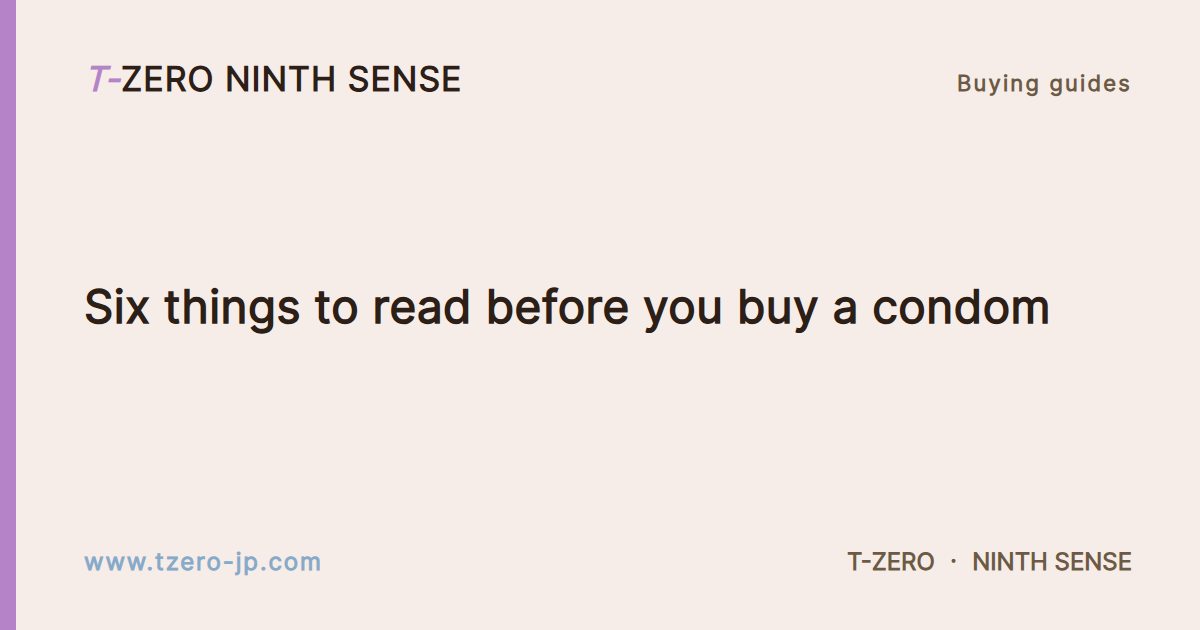
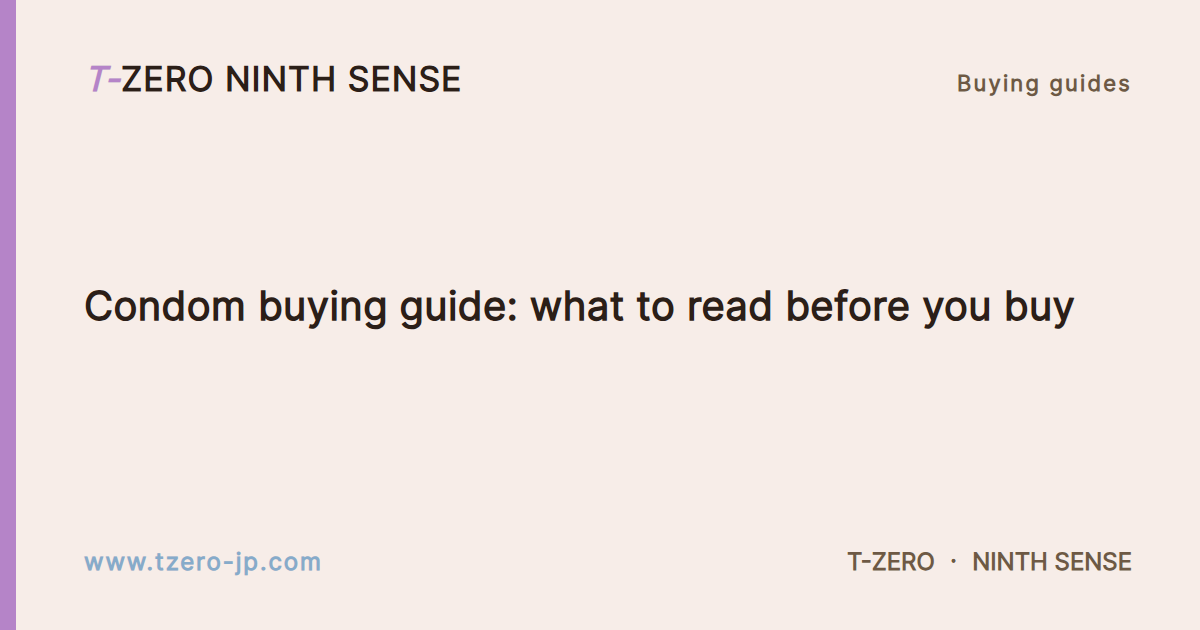
Put the words on the page that were written for it
The title of the guides hub was rewritten. What changed was the
title in the tab and the description under the search result — the
words a crawler reads. The heading above the fold still said "買安全套
之前,先看這六篇" and the paragraph under it still said "尺碼、材質、紋
路、厚度…". Those are the words a reader actually sees, and they
were the ones nobody had rewritten. The heading is the title now,
and the paragraph is the description, in all three languages.

The list of guides sat in a column of its own in the middle of the
page, under a heading on the left. The eye went from the heading
down to the list and found the two were not lined up. The column was
narrower than the heading above it, so the paragraph wrapped early
and left a hole on the right of the page. Everything on the guide
pages now reads as one column on the left, as wide as the heading
above it — the lead, the list, the prose, the questions, the tables.

The stylesheet's version number goes to 27 on every page, so the
new CSS is fetched rather than served from the cache.

161 tests pass. 55 generated files come out byte for byte the same.

Changed region(s): [[0.0617, 0.4524, 0.8942, 0.5429]]

diff --git a/guides.html b/guides.html
@@ -6,9 +6,9 @@
 <head>
   <meta charset="UTF-8">
   <meta name="viewport" content="width=device-width, initial-scale=1.0">
-  <title>【安全套選購指南】買安全套前必看, 解決你的所有避孕疑惑</title>
+  <title>【安全套選購指南】買安全套前必看, 解決你的避孕疑惑</title>
   <meta name="description" content="從安全套尺寸闊度量度、乳膠與PU材質比較、超薄厚度選擇到玻尿酸潤滑液的防乾功效，香港 T-ZERO 團隊為您一次解答常見疑問。">
-  <meta name="keywords" content="【安全套選購指南】買安全套前必看, 解決你的所有避孕疑惑">
+  <meta name="keywords" content="【安全套選購指南】買安全套前必看, 解決你的避孕疑惑">
   <meta name="robots" content="index,follow">
 
   <link rel="canonical" href="https://www.tzero-jp.com/guides.html">
@@ -19,20 +19,20 @@
 
   <meta property="og:type" content="website">
   <meta property="og:site_name" content="T-ZERO 第九感">
-  <meta property="og:title" content="【安全套選購指南】買安全套前必看, 解決你的所有避孕疑惑">
+  <meta property="og:title" content="【安全套選購指南】買安全套前必看, 解決你的避孕疑惑">
   <meta property="og:description" content="從安全套尺寸闊度量度、乳膠與PU材質比較、超薄厚度選擇到玻尿酸潤滑液的防乾功效，香港 T-ZERO 團隊為您一次解答常見疑問。">
   <meta property="og:url" content="https://www.tzero-jp.com/guides.html">
   <meta property="og:image" content="https://www.tzero-jp.com/assets/images/og/guides-zh.png">
   <meta property="og:image:width" content="1200">
   <meta property="og:image:height" content="630">
   <meta property="og:image:type" content="image/png">
-  <meta property="og:image:alt" content="T-ZERO 第九感 — 買安全套之前,先看這六篇">
+  <meta property="og:image:alt" content="T-ZERO 第九感 — 【安全套選購指南】買安全套前必看, 解決你的避孕疑惑">
   <meta property="og:locale" content="zh_HK" data-i18n-attr="content" data-i18n="seo.og.locale">
   <meta property="og:locale:alternate" content="en_US" data-i18n-attr="content" data-i18n="seo.og.locale.alt1">
   <meta property="og:locale:alternate" content="ja_JP" data-i18n-attr="content" data-i18n="seo.og.locale.alt2">
 
   <meta name="twitter:card" content="summary_large_image">
-  <meta name="twitter:title" content="【安全套選購指南】買安全套前必看, 解決你的所有避孕疑惑">
+  <meta name="twitter:title" content="【安全套選購指南】買安全套前必看, 解決你的避孕疑惑">
   <meta name="twitter:description" content="從安全套尺寸闊度量度、乳膠與PU材質比較、超薄厚度選擇到玻尿酸潤滑液的防乾功效，香港 T-ZERO 團隊為您一次解答常見疑問。">
   <meta name="twitter:image" content="https://www.tzero-jp.com/assets/images/og/guides-zh.png">
 
@@ -43,7 +43,7 @@
   <link rel="stylesheet" href="assets/css/base.css?v=5">
   <link rel="stylesheet" href="assets/css/layout.css?v=37">
   <link rel="stylesheet" href="assets/css/components.css?v=5">
-  <link rel="stylesheet" href="assets/css/pages.css?v=26">
+  <link rel="stylesheet" href="assets/css/pages.css?v=27">
 
   <script src="assets/js/splash.js?v=5" defer></script>
 
@@ -78,7 +78,7 @@
       "@type": "CollectionPage",
       "@id": "https://www.tzero-jp.com/guides.html#webpage",
       "url": "https://www.tzero-jp.com/guides.html",
-      "name": "【安全套選購指南】買安全套前必看, 解決你的所有避孕疑惑",
+      "name": "【安全套選購指南】買安全套前必看, 解決你的避孕疑惑",
       "description": "從安全套尺寸闊度量度、乳膠與PU材質比較、超薄厚度選擇到玻尿酸潤滑液的防乾功效，香港 T-ZERO 團隊為您一次解答常見疑問。",
       "isPartOf": {
         "@id": "https://www.tzero-jp.com/#site"
@@ -88,7 +88,7 @@
       },
       "inLanguage": "zh-HK",
       "datePublished": "2026-11-02",
-      "dateModified": "2026-11-05",
+      "dateModified": "2026-11-06",
       "image": "https://www.tzero-jp.com/assets/images/og/guides-zh.png"
     },
     {
@@ -186,8 +186,8 @@
 
         <header class="guide__head">
           <span class="eyebrow">選購指南</span>
-          <h1><svg class="guide__icon guide__icon--title" viewBox="0 0 24 24" fill="none" stroke="currentColor" stroke-width="1.8" stroke-linecap="round" stroke-linejoin="round" aria-hidden="true"><path d="M9.5 6.5h11M9.5 12h11M9.5 17.5h11"/><path d="M4.6 6.5h.01M4.6 12h.01M4.6 17.5h.01"/></svg>買安全套之前,先看這六篇</h1>
-          <p class="guide__lead">尺碼、材質、紋路、厚度、第一次買,以及潤滑到底有沒有用 — 最常被問到的六個問題,一次講清楚。</p>
+          <h1><svg class="guide__icon guide__icon--title" viewBox="0 0 24 24" fill="none" stroke="currentColor" stroke-width="1.8" stroke-linecap="round" stroke-linejoin="round" aria-hidden="true"><path d="M9.5 6.5h11M9.5 12h11M9.5 17.5h11"/><path d="M4.6 6.5h.01M4.6 12h.01M4.6 17.5h.01"/></svg>【安全套選購指南】買安全套前必看, 解決你的避孕疑惑</h1>
+          <p class="guide__lead">從安全套尺寸闊度量度、乳膠與PU材質比較、超薄厚度選擇到玻尿酸潤滑液的防乾功效，香港 T-ZERO 團隊為您一次解答常見疑問。</p>
         </header>
 
         <div class="guide-hub">

diff --git a/ja/guides.html b/ja/guides.html
@@ -26,7 +26,7 @@
   <meta property="og:image:width" content="1200">
   <meta property="og:image:height" content="630">
   <meta property="og:image:type" content="image/png">
-  <meta property="og:image:alt" content="T-ZERO 第九感 — コンドームを買う前に読んでおきたい6つのガイド">
+  <meta property="og:image:alt" content="T-ZERO 第九感 — 【コンドーム購入ガイド】購入前に知っておきたい疑問をすべて解説">
   <meta property="og:locale" content="ja_JP">
   <meta property="og:locale:alternate" content="zh_HK">
   <meta property="og:locale:alternate" content="en_US">
@@ -43,7 +43,7 @@
   <link rel="stylesheet" href="../assets/css/base.css?v=5">
   <link rel="stylesheet" href="../assets/css/layout.css?v=37">
   <link rel="stylesheet" href="../assets/css/components.css?v=5">
-  <link rel="stylesheet" href="../assets/css/pages.css?v=26">
+  <link rel="stylesheet" href="../assets/css/pages.css?v=27">
 
   <script src="../assets/js/splash.js?v=5" defer></script>
 
@@ -88,7 +88,7 @@
       },
       "inLanguage": "ja-JP",
       "datePublished": "2026-11-02",
-      "dateModified": "2026-11-05",
+      "dateModified": "2026-11-06",
       "image": "https://www.tzero-jp.com/assets/images/og/guides-ja.png"
     },
     {
@@ -186,8 +186,8 @@
 
         <header class="guide__head">
           <span class="eyebrow">購入ガイド</span>
-          <h1><svg class="guide__icon guide__icon--title" viewBox="0 0 24 24" fill="none" stroke="currentColor" stroke-width="1.8" stroke-linecap="round" stroke-linejoin="round" aria-hidden="true"><path d="M9.5 6.5h11M9.5 12h11M9.5 17.5h11"/><path d="M4.6 6.5h.01M4.6 12h.01M4.6 17.5h.01"/></svg>コンドームを買う前に読んでおきたい6つのガイド</h1>
-          <p class="guide__lead">サイズ、素材、テクスチャ、厚さ、はじめての一本、そして潤滑剤が実際に何をしているのか。よく聞かれる六つの疑問に、ひとつずつ答えました。</p>
+          <h1><svg class="guide__icon guide__icon--title" viewBox="0 0 24 24" fill="none" stroke="currentColor" stroke-width="1.8" stroke-linecap="round" stroke-linejoin="round" aria-hidden="true"><path d="M9.5 6.5h11M9.5 12h11M9.5 17.5h11"/><path d="M4.6 6.5h.01M4.6 12h.01M4.6 17.5h.01"/></svg>【コンドーム購入ガイド】購入前に知っておきたい疑問をすべて解説</h1>
+          <p class="guide__lead">サイズを測る方法からラテックスとPUの素材の違い、極薄の選び方、ヒアルロテン酸の潤滑効果まで。香港のT-ZEROチームがよくある質問を一気に解説します。</p>
         </header>
 
         <div class="guide-hub">

diff --git a/en/guides.html b/en/guides.html
@@ -26,7 +26,7 @@
   <meta property="og:image:width" content="1200">
   <meta property="og:image:height" content="630">
   <meta property="og:image:type" content="image/png">
-  <meta property="og:image:alt" content="T-ZERO NINTH SENSE — Six things to read before you buy a condom">
+  <meta property="og:image:alt" content="T-ZERO NINTH SENSE — Condom buying guide: what to read before you buy">
   <meta property="og:locale" content="en_US">
   <meta property="og:locale:alternate" content="zh_HK">
   <meta property="og:locale:alternate" content="ja_JP">
@@ -43,7 +43,7 @@
   <link rel="stylesheet" href="../assets/css/base.css?v=5">
   <link rel="stylesheet" href="../assets/css/layout.css?v=37">
   <link rel="stylesheet" href="../assets/css/components.css?v=5">
-  <link rel="stylesheet" href="../assets/css/pages.css?v=26">
+  <link rel="stylesheet" href="../assets/css/pages.css?v=27">
 
   <script src="../assets/js/splash.js?v=5" defer></script>
 
@@ -88,7 +88,7 @@
       },
       "inLanguage": "en",
       "datePublished": "2026-11-02",
-      "dateModified": "2026-11-05",
+      "dateModified": "2026-11-06",
       "image": "https://www.tzero-jp.com/assets/images/og/guides-en.png"
     },
     {
@@ -186,8 +186,8 @@
 
         <header class="guide__head">
           <span class="eyebrow">Buying guides</span>
-          <h1><svg class="guide__icon guide__icon--title" viewBox="0 0 24 24" fill="none" stroke="currentColor" stroke-width="1.8" stroke-linecap="round" stroke-linejoin="round" aria-hidden="true"><path d="M9.5 6.5h11M9.5 12h11M9.5 17.5h11"/><path d="M4.6 6.5h.01M4.6 12h.01M4.6 17.5h.01"/></svg>Six things to read before you buy a condom</h1>
-          <p class="guide__lead">Size, material, texture, thickness, buying one for the first time, and what the lubricant is actually doing — the six questions people ask most, answered properly.</p>
+          <h1><svg class="guide__icon guide__icon--title" viewBox="0 0 24 24" fill="none" stroke="currentColor" stroke-width="1.8" stroke-linecap="round" stroke-linejoin="round" aria-hidden="true"><path d="M9.5 6.5h11M9.5 12h11M9.5 17.5h11"/><path d="M4.6 6.5h.01M4.6 12h.01M4.6 17.5h.01"/></svg>Condom buying guide: what to read before you buy</h1>
+          <p class="guide__lead">From measuring the width of a condom to comparing latex with PU, choosing how thin to go, and what the hyaluronic lubricant does about dryness — the Hong Kong T-ZERO team answers the questions people ask most, in one place.</p>
         </header>
 
         <div class="guide-hub">

diff --git a/assets/css/pages.css b/assets/css/pages.css
@@ -981,11 +981,14 @@
 .guide__icon--item { width: 0.95em; height: 0.95em; vertical-align: -0.1em; }
 .guide__icon--pill { width: 1em; height: 1em; vertical-align: -0.12em; margin-right: 0.35em; }
 
+/* The lead is as wide as the heading above it. A paragraph that
+   stops two thirds of the way across the page, while the heading
+   beside it runs the whole way, leaves a hole on the right and
+   breaks the line where there was nothing to break it. */
 .guide__lead {
   font-size: var(--fs-md);
   line-height: 1.75;
   color: var(--ink-soft);
-  max-width: 760px;
 }
 
 .guide__meta {
@@ -1060,7 +1063,7 @@
 /* The writing itself — one column, top to bottom. A guide is read,
    not scanned: the answer is usually a paragraph, and a paragraph
    cut in half and put beside a heading is harder to read. */
-.guide__prose { max-width: 760px; margin-inline: auto; }
+.guide__prose { margin-inline: 0; }
 
 .guide__section { margin-bottom: var(--space-7); }
 
@@ -1156,7 +1159,7 @@
 .guide__table tbody tr:nth-child(even) { background: rgba(238, 245, 251, 0.55); }
 
 /* The questions */
-.guide__faq { max-width: 760px; margin-inline: auto; margin-top: var(--space-7); }
+.guide__faq { margin-inline: 0; margin-top: var(--space-7); }
 
 .guide__faq h2,
 .guide__related h2,
@@ -1205,7 +1208,7 @@
 
 /* The links out */
 .guide__related,
-.guide__all { max-width: 760px; margin-inline: auto; margin-top: var(--space-7); }
+.guide__all { margin-inline: 0; margin-top: var(--space-7); }
 
 .guide__related ul,
 .guide__all ul {
@@ -1282,10 +1285,19 @@
 
 /* One column, top to bottom, like the guides themselves. A list
    of things to read is a list — five boxes side by side would be
-   five things to squint at. */
+   five things to squint at.
+
+   It sits on the left, under the heading, and runs the whole width
+   of the content. The heading and the paragraph above it are both on
+   the left edge of the content, and a list floating in the middle of
+   the page underneath them reads as a mistake: the eye goes to the
+   heading, down to the list, and finds the two are not lined up. And
+   a list of six one-line entries does not need a narrow column — the
+   width was the only thing standing between it and the right-hand
+   edge of the page. The guides themselves read the same way — the
+   heading on the left, the text under it on the left. */
 .guide-hub {
-  max-width: 760px;
-  margin-inline: auto;
+  margin-inline: 0;
   margin-bottom: var(--space-7);
 }
 

diff --git a/en/about.html b/en/about.html
@@ -39,7 +39,7 @@
   <link rel="stylesheet" href="../assets/css/base.css?v=5">
   <link rel="stylesheet" href="../assets/css/layout.css?v=37">
   <link rel="stylesheet" href="../assets/css/components.css?v=5">
-  <link rel="stylesheet" href="../assets/css/pages.css?v=26">
+  <link rel="stylesheet" href="../assets/css/pages.css?v=27">
 
   <script src="../assets/js/splash.js?v=5" defer></script>
 

diff --git a/en/contact.html b/en/contact.html
@@ -39,7 +39,7 @@
   <link rel="stylesheet" href="../assets/css/base.css?v=5">
   <link rel="stylesheet" href="../assets/css/layout.css?v=37">
   <link rel="stylesheet" href="../assets/css/components.css?v=5">
-  <link rel="stylesheet" href="../assets/css/pages.css?v=26">
+  <link rel="stylesheet" href="../assets/css/pages.css?v=27">
 
   <script src="../assets/js/splash.js?v=5" defer></script>
 

diff --git a/en/guide-first-time.html b/en/guide-first-time.html
@@ -43,7 +43,7 @@
   <link rel="stylesheet" href="../assets/css/base.css?v=5">
   <link rel="stylesheet" href="../assets/css/layout.css?v=37">
   <link rel="stylesheet" href="../assets/css/components.css?v=5">
-  <link rel="stylesheet" href="../assets/css/pages.css?v=26">
+  <link rel="stylesheet" href="../assets/css/pages.css?v=27">
 
   <script src="../assets/js/splash.js?v=5" defer></script>
 

diff --git a/en/guide-hyaluronic.html b/en/guide-hyaluronic.html
@@ -43,7 +43,7 @@
   <link rel="stylesheet" href="../assets/css/base.css?v=5">
   <link rel="stylesheet" href="../assets/css/layout.css?v=37">
   <link rel="stylesheet" href="../assets/css/components.css?v=5">
-  <link rel="stylesheet" href="../assets/css/pages.css?v=26">
+  <link rel="stylesheet" href="../assets/css/pages.css?v=27">
 
   <script src="../assets/js/splash.js?v=5" defer></script>
 

diff --git a/en/guide-material.html b/en/guide-material.html
@@ -43,7 +43,7 @@
   <link rel="stylesheet" href="../assets/css/base.css?v=5">
   <link rel="stylesheet" href="../assets/css/layout.css?v=37">
   <link rel="stylesheet" href="../assets/css/components.css?v=5">
-  <link rel="stylesheet" href="../assets/css/pages.css?v=26">
+  <link rel="stylesheet" href="../assets/css/pages.css?v=27">
 
   <script src="../assets/js/splash.js?v=5" defer></script>
 

diff --git a/en/guide-size.html b/en/guide-size.html
@@ -43,7 +43,7 @@
   <link rel="stylesheet" href="../assets/css/base.css?v=5">
   <link rel="stylesheet" href="../assets/css/layout.css?v=37">
   <link rel="stylesheet" href="../assets/css/components.css?v=5">
-  <link rel="stylesheet" href="../assets/css/pages.css?v=26">
+  <link rel="stylesheet" href="../assets/css/pages.css?v=27">
 
   <script src="../assets/js/splash.js?v=5" defer></script>
 

diff --git a/en/guide-texture.html b/en/guide-texture.html
@@ -43,7 +43,7 @@
   <link rel="stylesheet" href="../assets/css/base.css?v=5">
   <link rel="stylesheet" href="../assets/css/layout.css?v=37">
   <link rel="stylesheet" href="../assets/css/components.css?v=5">
-  <link rel="stylesheet" href="../assets/css/pages.css?v=26">
+  <link rel="stylesheet" href="../assets/css/pages.css?v=27">
 
   <script src="../assets/js/splash.js?v=5" defer></script>
 

diff --git a/en/guide-thickness.html b/en/guide-thickness.html
@@ -43,7 +43,7 @@
   <link rel="stylesheet" href="../assets/css/base.css?v=5">
   <link rel="stylesheet" href="../assets/css/layout.css?v=37">
   <link rel="stylesheet" href="../assets/css/components.css?v=5">
-  <link rel="stylesheet" href="../assets/css/pages.css?v=26">
+  <link rel="stylesheet" href="../assets/css/pages.css?v=27">
 
   <script src="../assets/js/splash.js?v=5" defer></script>
 
